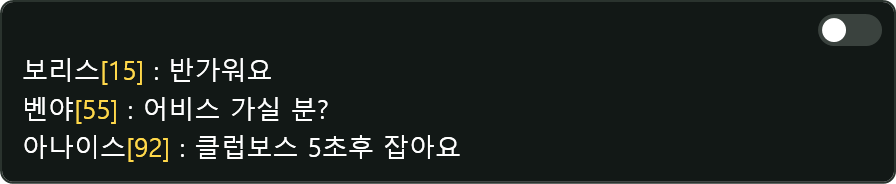
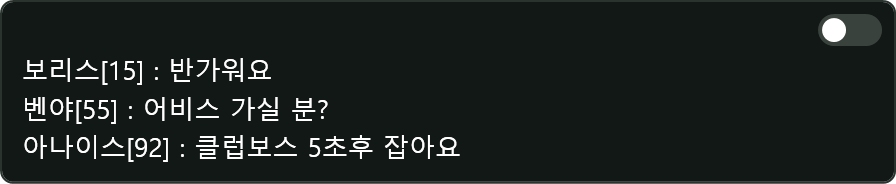
feat: 에타 레벨 '동기화' 해제 = 레벨별 색상 사용으로 단순화
- 동기화 ON: 줄 색 / OFF: 구간(1~20/21~40/41~60/61~80/81~) 색 — 별도 토글·단일 색 제거
- 레벨별 색상 스펙트럼 바는 동기화가 꺼져 있을 때 활성화
- 미사용이 된 EtaLevelColor·EtaLevelRangeColors 설정 제거, 도움말·예시 이미지 갱신

Changed region(s): [[0.125, 0.7337, 0.1875, 0.8696], [0.0938, 0.3261, 0.1562, 0.462], [0.0625, 0.5435, 0.125, 0.6793]]

diff --git a/ViewModels/SettingsViewModel.cs b/ViewModels/SettingsViewModel.cs
@@ -322,13 +322,6 @@ namespace TWChatOverlay.ViewModels
             set { if (_settings.IdTagColorSync == value) return; _settings.IdTagColorSync = value; OnPropertyChanged(); OnPropertyChanged(nameof(IdTagColorEditable)); _onColorsUpdated?.Invoke("Decoration"); SaveSettings(); }
         }
 
-        // 에타 레벨 구간별 색상 (켜면 동기화/개별 색보다 우선)
-        public bool EtaLevelRangeColors
-        {
-            get => _settings.EtaLevelRangeColors;
-            set { if (_settings.EtaLevelRangeColors == value) return; _settings.EtaLevelRangeColors = value; OnPropertyChanged(); _onColorsUpdated?.Invoke("Decoration"); SaveSettings(); }
-        }
-
         public Brush EtaLevelRange1Color => StringToBrush(_settings.EtaLevelRange1Color);
         public Brush EtaLevelRange2Color => StringToBrush(_settings.EtaLevelRange2Color);
         public Brush EtaLevelRange3Color => StringToBrush(_settings.EtaLevelRange3Color);
@@ -342,7 +335,6 @@ namespace TWChatOverlay.ViewModels
         public bool IdTagColorEditable => !_settings.IdTagColorSync;
 
         public Brush SenderIdColor => StringToBrush(_settings.SenderIdColor);
-        public Brush EtaLevelColor => StringToBrush(_settings.EtaLevelColor);
         public Brush EtaCharacterColor => StringToBrush(_settings.EtaCharacterColor);
         public Brush TimestampColor => StringToBrush(_settings.TimestampColor);
         public Brush IdTagColor => StringToBrush(_settings.IdTagColor);
@@ -706,7 +698,6 @@ namespace TWChatOverlay.ViewModels
                 "Club" => ClubColor,
                 "Shout" => ShoutColor,
                 "System" => SystemColor,
-                "EtaLevel" => EtaLevelColor,
                 "EtaCharacter" => EtaCharacterColor,
                 "Timestamp" => TimestampColor,
                 "IdTag" => IdTagColor,
@@ -731,7 +722,6 @@ namespace TWChatOverlay.ViewModels
                 OnPropertyChanged(nameof(ClubColor));
                 OnPropertyChanged(nameof(ShoutColor));
                 OnPropertyChanged(nameof(SystemColor));
-                OnPropertyChanged(nameof(EtaLevelColor));
                 OnPropertyChanged(nameof(EtaCharacterColor));
                 OnPropertyChanged(nameof(TimestampColor));
                 OnPropertyChanged(nameof(IdTagColor));
@@ -752,8 +742,19 @@ namespace TWChatOverlay.ViewModels
         /// </summary>
         private void ExecuteInitSettings()
         {
-            AppLogger.Warn("Resetting settings to default values.");
-            _settings.ResetToDefault();
+            // 배포에 동봉된 공장 기본 설정(기본 프로필)이 있으면 그 값으로, 없으면 코드 기본값으로
+            var factoryDefaults = ConfigService.TryLoadFactoryDefaults();
+            if (factoryDefaults != null)
+            {
+                AppLogger.Warn("Resetting settings to factory default profile.");
+                _settings.ApplyFrom(factoryDefaults);
+            }
+            else
+            {
+                AppLogger.Warn("Resetting settings to default values.");
+                _settings.ResetToDefault();
+            }
+
             NotifyAllSettingsChanged();
             SaveSettings();
             _onSettingsReset?.Invoke();
@@ -808,11 +809,9 @@ namespace TWChatOverlay.ViewModels
             OnPropertyChanged(nameof(EtaCharacterColorEditable));
             OnPropertyChanged(nameof(TimestampColorEditable));
             OnPropertyChanged(nameof(IdTagColorEditable));
-            OnPropertyChanged(nameof(EtaLevelColor));
             OnPropertyChanged(nameof(EtaCharacterColor));
             OnPropertyChanged(nameof(TimestampColor));
             OnPropertyChanged(nameof(IdTagColor));
-            OnPropertyChanged(nameof(EtaLevelRangeColors));
             OnPropertyChanged(nameof(EtaLevelRange1Color));
             OnPropertyChanged(nameof(EtaLevelRange2Color));
             OnPropertyChanged(nameof(EtaLevelRange3Color));

diff --git a/Services/Diagnostics/HelpShotRenderer.cs b/Services/Diagnostics/HelpShotRenderer.cs
@@ -59,13 +59,13 @@ namespace TWChatOverlay.Services
             Save(outDir, "chat_id_eta_level_off.png", PanelToggle(false,
                 Line(NormalCol, ("아나이스", NormalCol), (" : 어비스 가실 분?", NormalCol))));
             Save(outDir, "chat_id_eta_level_on.png", PanelToggle(true,
-                Line(NormalCol, ("아나이스", NormalCol), ("[72]", GoldCol), (" : 어비스 가실 분?", NormalCol))));
+                Line(NormalCol, ("아나이스", NormalCol), ("[72]", NormalCol), (" : 어비스 가실 분?", NormalCol))));
 
             // ── 에타 레벨별 색상 ──
             Save(outDir, "chat_id_eta_range_off.png", PanelToggle(false,
-                Line(NormalCol, ("보리스", NormalCol), ("[15]", GoldCol), (" : 반가워요", NormalCol)),
-                Line(NormalCol, ("벤야", NormalCol), ("[55]", GoldCol), (" : 어비스 가실 분?", NormalCol)),
-                Line(NormalCol, ("아나이스", NormalCol), ("[92]", GoldCol), (" : 클럽보스 5초후 잡아요", NormalCol))));
+                Line(NormalCol, ("보리스", NormalCol), ("[15]", NormalCol), (" : 반가워요", NormalCol)),
+                Line(NormalCol, ("벤야", NormalCol), ("[55]", NormalCol), (" : 어비스 가실 분?", NormalCol)),
+                Line(NormalCol, ("아나이스", NormalCol), ("[92]", NormalCol), (" : 클럽보스 5초후 잡아요", NormalCol))));
             Save(outDir, "chat_id_eta_range_on.png", PanelToggle(true,
                 Line(NormalCol, ("보리스", NormalCol), ("[15]", Range1Col), (" : ㅎㅇ", NormalCol)),
                 Line(NormalCol, ("루시안", NormalCol), ("[33]", Range2Col), (" : 에오니스 라피스 팝니다", NormalCol)),
@@ -75,9 +75,9 @@ namespace TWChatOverlay.Services
 
             // ── 캐릭터 ──
             Save(outDir, "chat_id_character_off.png", PanelToggle(false,
-                Line(NormalCol, ("비호", NormalCol), ("[72]", GoldCol), (" : 어비스 가실 분?", NormalCol))));
+                Line(NormalCol, ("비호", NormalCol), ("[72]", NormalCol), (" : 어비스 가실 분?", NormalCol))));
             Save(outDir, "chat_id_character_on.png", PanelToggle(true,
-                Line(NormalCol, ("비호", NormalCol), ("[72]", GoldCol), ("[아나이스]", SkyCol), (" : 어비스 가실 분?", NormalCol))));
+                Line(NormalCol, ("비호", NormalCol), ("[72]", NormalCol), ("[아나이스]", SkyCol), (" : 어비스 가실 분?", NormalCol))));
 
             // ── 아이디 태그 ──
             Save(outDir, "chat_id_tag_off.png", PanelToggle(false,

diff --git a/Services/Data/HelpTopics.cs b/Services/Data/HelpTopics.cs
@@ -47,14 +47,13 @@ namespace TWChatOverlay.Services
                 "말한 사람의 에타 레벨을 아이디 뒤에 [레벨]로 붙여 보여줍니다.\n" +
                 "레벨 정보는 TW DB 에타 랭킹에서 가져오며, 하루 단위로 갱신됩니다.\n" +
                 "랭킹에 없거나 에타 정보가 없는(레벨 0) 아이디는 표시하지 않습니다.\n" +
-                "아래 '레벨별 색상'을 켜면 레벨 구간에 따라 색을 다르게 고를 수 있습니다." + ColorSyncGuide,
+                "'동기화'가 켜져 있으면 줄 색을 따르고, 끄면 아래 '레벨별 색상'의 구간 색이 적용됩니다.",
                 new[] { "chat_id_eta_level_off.png", "chat_id_eta_level_on.png" }),
 
             ["chat.id.eta_range"] = (
                 "레벨별 색상",
-                "에타 레벨 구간에 따라 [레벨] 표기 색을 다르게 칠합니다.\n" +
-                "구간: 1~20 / 21~40 / 41~60 / 61~80 / 81 이상 — 각 구간의 색 버튼으로 바꿀 수 있습니다.\n" +
-                "켜면 '동기화'나 개별 색 설정보다 우선 적용됩니다.\n" +
+                "에타 레벨 '동기화'를 끄면 레벨 구간에 따라 [레벨] 표기에 이 색이 적용됩니다.\n" +
+                "구간: 1~20 / 21~40 / 41~60 / 61~80 / 81 이상 — 각 칸을 눌러 색을 바꿀 수 있습니다.\n" +
                 "에타 정보가 없는(레벨 0) 아이디는 레벨 자체가 표시되지 않습니다.",
                 new[] { "chat_id_eta_range_off.png", "chat_id_eta_range_on.png" }),
 

diff --git a/Models/Settings/ChatSettings.cs b/Models/Settings/ChatSettings.cs
@@ -129,14 +129,10 @@ namespace TWChatOverlay.Models
         [JsonIgnore]
         public string IdTagColor { get => Chat.IdDisplay.IdTagColor; set { Chat.IdDisplay.IdTagColor = value; OnPropertyChanged(); } }
         [JsonIgnore]
-        public string EtaLevelColor { get => Chat.IdDisplay.EtaLevelColor; set { Chat.IdDisplay.EtaLevelColor = value; OnPropertyChanged(); } }
-        [JsonIgnore]
         public string EtaCharacterColor { get => Chat.IdDisplay.EtaCharacterColor; set { Chat.IdDisplay.EtaCharacterColor = value; OnPropertyChanged(); } }
         [JsonIgnore]
         public string TimestampColor { get => Chat.IdDisplay.TimestampColor; set { Chat.IdDisplay.TimestampColor = value; OnPropertyChanged(); } }
-        // 에타 레벨 구간별 색상 (켜면 동기화/개별 색보다 우선)
-        [JsonIgnore]
-        public bool EtaLevelRangeColors { get => Chat.IdDisplay.EtaLevelRangeColors; set { Chat.IdDisplay.EtaLevelRangeColors = value; OnPropertyChanged(); } }
+        // 에타 레벨 구간별 색상 (동기화 해제 시 적용)
         [JsonIgnore]
         public string EtaLevelRange1Color { get => Chat.IdDisplay.EtaLevelRange1Color; set { Chat.IdDisplay.EtaLevelRange1Color = value; OnPropertyChanged(); } }
         [JsonIgnore]

diff --git a/Services/UI/ChatLineComposer.cs b/Services/UI/ChatLineComposer.cs
@@ -109,8 +109,8 @@ namespace TWChatOverlay.Services
                 {
                     ChatSegmentKind.SenderId when !settings.SenderIdColorSync => ChatBrushResolver.ToBrush(settings.SenderIdColor),
                     ChatSegmentKind.Timestamp when !settings.TimestampColorSync => ChatBrushResolver.ToBrush(settings.TimestampColor),
-                    ChatSegmentKind.EtaLevel when settings.EtaLevelRangeColors => EtaLevelRangeBrush(segment.Text, settings),
-                    ChatSegmentKind.EtaLevel when !settings.EtaLevelColorSync => ChatBrushResolver.ToBrush(settings.EtaLevelColor),
+                    // 에타 레벨: 동기화 해제 시 구간(레벨별) 색을 사용한다
+                    ChatSegmentKind.EtaLevel when !settings.EtaLevelColorSync => EtaLevelRangeBrush(segment.Text, settings),
                     ChatSegmentKind.Character when !settings.EtaCharacterColorSync => ChatBrushResolver.ToBrush(settings.EtaCharacterColor),
                     ChatSegmentKind.IdTag when !settings.IdTagColorSync => ChatBrushResolver.ToBrush(settings.IdTagColor),
                     _ => null,

diff --git a/Models/Settings/SettingsSections.cs b/Models/Settings/SettingsSections.cs
@@ -59,9 +59,7 @@ namespace TWChatOverlay.Models
         public bool TimestampColorSync { get; set; } = true;
         public bool IdTagColorSync { get; set; } = true;
         public string SenderIdColor { get; set; } = "#E8EAE9";
-        public string EtaLevelColor { get; set; } = "#FFD84A";
         // 에타 레벨 구간별 색상: 켜면 동기화/개별 색 대신 레벨 구간에 따라 칠한다 (레벨 0은 에타 정보 없음 → 표기 자체를 생략)
-        public bool EtaLevelRangeColors { get; set; } = false;
         public string EtaLevelRange1Color { get; set; } = "#C8CDD2"; // 1~20
         public string EtaLevelRange2Color { get; set; } = "#7EE081"; // 21~40
         public string EtaLevelRange3Color { get; set; } = "#5AC8E8"; // 41~60

diff --git a/Models/Settings/ChatSettings.Presets.cs b/Models/Settings/ChatSettings.Presets.cs
@@ -11,7 +11,6 @@
                 case "Team": TeamColor = hex; break;
                 case "Club": ClubColor = hex; break;
                 case "Shout": ShoutColor = hex; break;
-                case "EtaLevel": EtaLevelColor = hex; break;
                 case "EtaCharacter": EtaCharacterColor = hex; break;
                 case "Timestamp": TimestampColor = hex; break;
                 case "IdTag": IdTagColor = hex; break;
